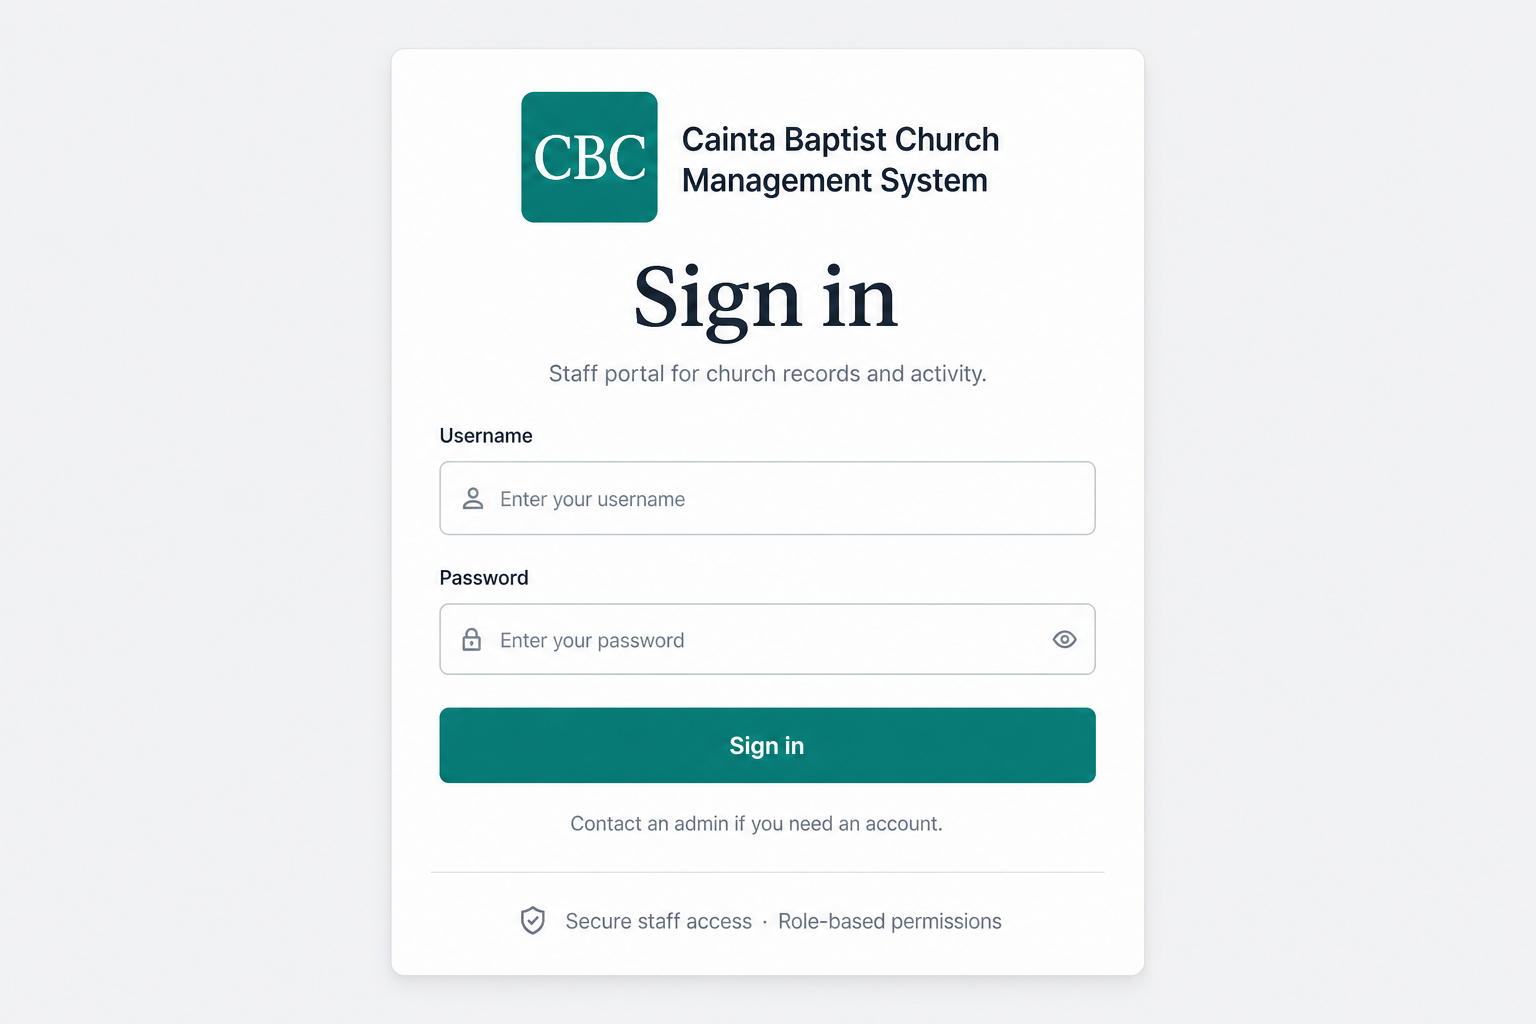
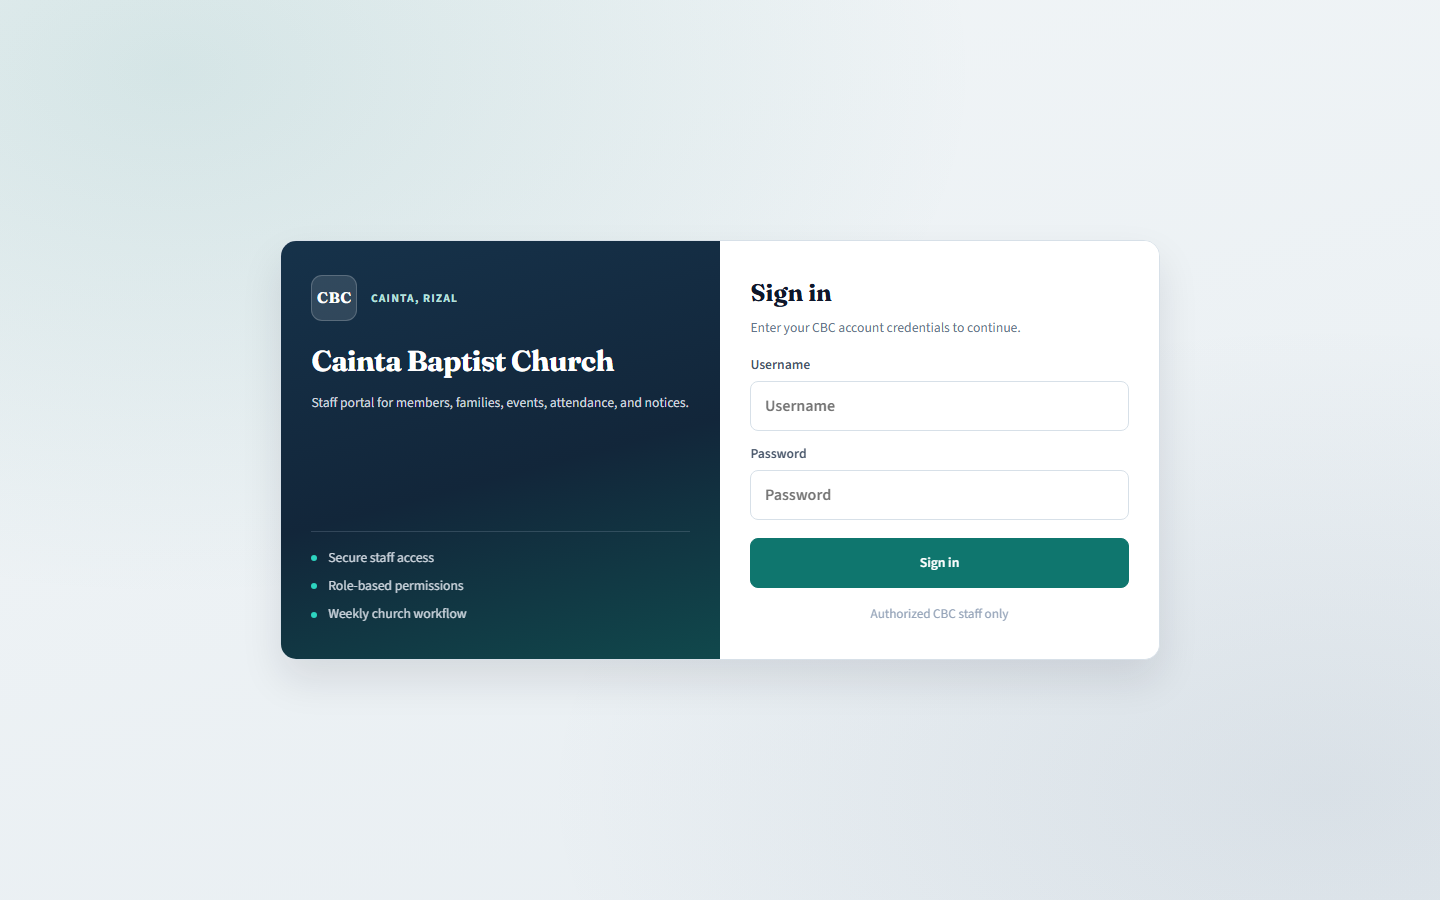
updated link

diff --git a/src/constants/experience.ts b/src/constants/experience.ts
@@ -36,7 +36,7 @@ export const experienceEntries: ExperienceEntry[] = [
       "Deployed with Neon, Render, and Vercel.",
     ],
     technologies: ["React", "Django REST", "PostgreSQL", "Neon", "Render", "Vercel"],
-    liveUrl: "https://church-management-system.vercel.app/",
+    liveUrl: "https://church-management-system-sigma-sable.vercel.app/",
     githubUrl: "https://github.com/juneabayabay/ChurchManagementSystem",
     current: false,
   },

diff --git a/src/constants/projects.ts b/src/constants/projects.ts
@@ -17,7 +17,7 @@ export const projects: Project[] = [
       "Vercel",
     ],
     githubUrl: "https://github.com/juneabayabay/ChurchManagementSystem",
-    liveUrl: "https://church-management-system.vercel.app/",
+    liveUrl: "https://church-management-system-sigma-sable.vercel.app/",
     learned: [
       "JWT login and role-based access",
       "CRUD for church records",